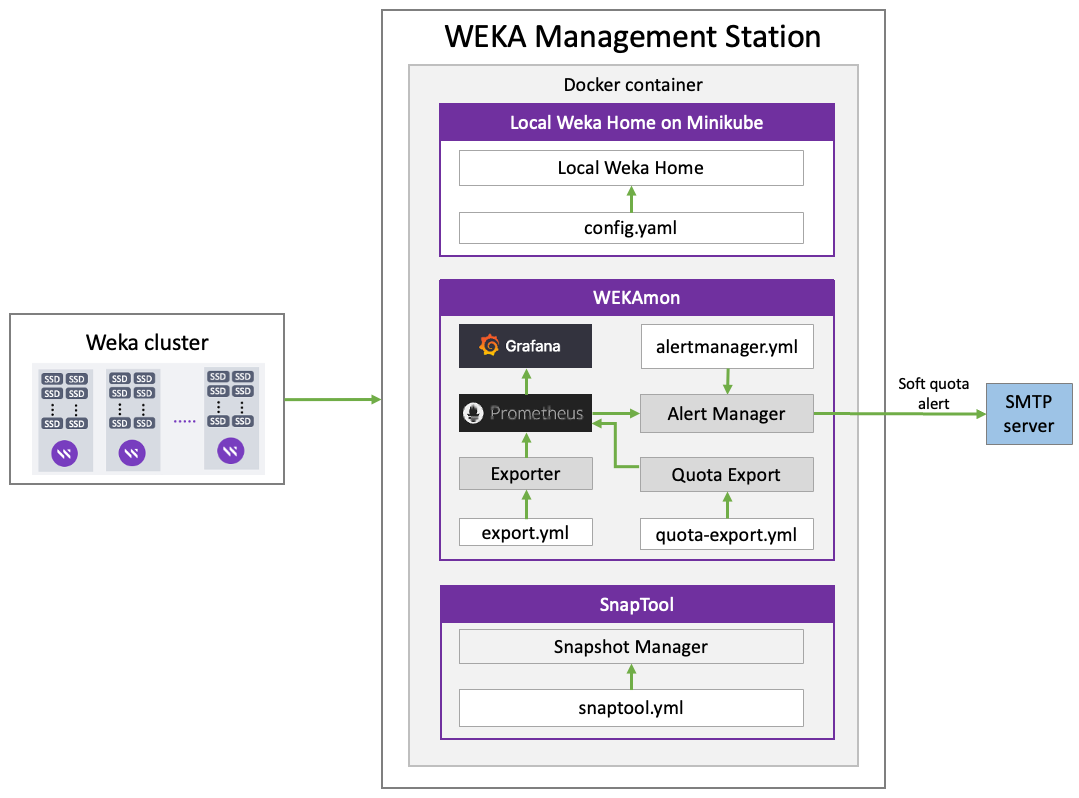
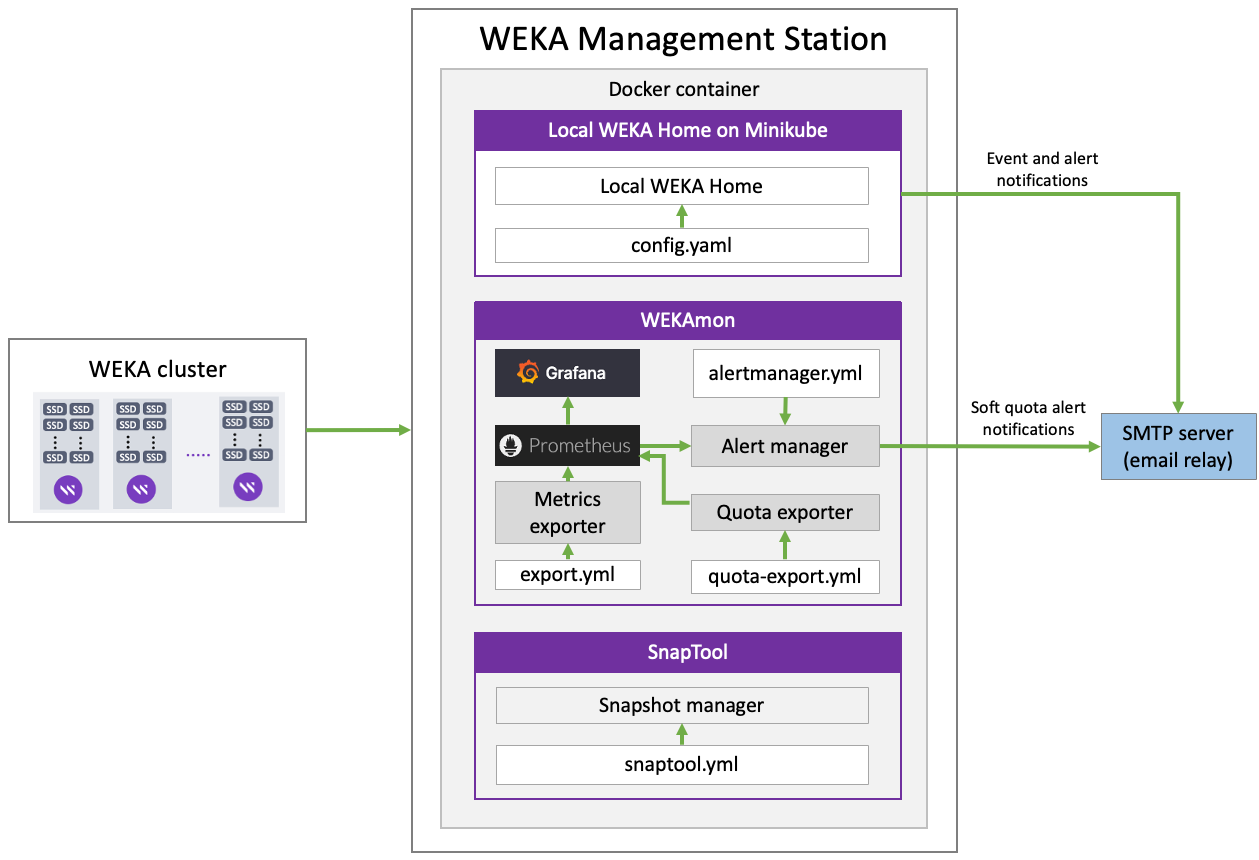
GITBOOK-475: WMS Changes after actually deploying it

diff --git a/monitor-the-weka-cluster/deploy-monitoring-tools-using-the-weka-management-station-wms.md b/monitor-the-weka-cluster/deploy-monitoring-tools-using-the-weka-management-station-wms.md
@@ -6,9 +6,9 @@ description: >-
 
 # Deploy monitoring tools using the WEKA Management Station (WMS)
 
-The WEKA Management Station (WMS) is an install kit similar to an OS install disk that simplifies the installation and configuration of the Local WEKA Home (LWH), WEKAmon, and SnapTool, in an on-premises environment. The WMS installs the WEKA OS, drivers, and WEKA software automatically and unattended.
+The WEKA Management Station (WMS) is an installation kit similar to an OS installation disk that simplifies the installation and configuration of the Local WEKA Home (LWH), WEKAmon, and SnapTool in an on-premises environment. The WMS installs the WEKA OS, drivers, and WEKA software automatically and unattended.
 
-The WMS is also used for installing a WEKA cluster by deploying the WEKA Software Appliance (WSA) package on bare metal servers.
+The WMS can also install a WEKA cluster by deploying the WEKA Software Appliance (WSA) package on bare metal servers.
 
 <figure><img src="../.gitbook/assets/WMS_deployment.png" alt=""><figcaption><p>WEKA Management Station deployment</p></figcaption></figure>
 
@@ -39,6 +39,11 @@ The server or VM must meet the following requirements:
   * If not configuring LWH: minimum 4 cores and 16 GiB.
   * If configuring LWH, see the Server minimum CPU and RAM requirements section in [#1.-verify-prerequisites](the-wekaio-support-cloud/local-weka-home-deployment.md#1.-verify-prerequisites "mention").
 * **Network interface:** 1 Gbps.&#x20;
+* **Firewall rules:**   The WMS listens on multiple ports depending on which service you are accessing.  See [#required-ports](../support/prerequisites-and-compatibility.md#required-ports "mention")
+
+{% hint style="info" %}
+This workflow only applies to installation on a server or VM. It does not apply to installation on AWS. To install on AWS, contact the Customer Success Team.
+{% endhint %}
 
 ## Before you begin
 
@@ -50,24 +55,28 @@ Before deploying the WMS, adhere to the following:
 * To get a command prompt from the Installation GUI, do one of the following:
   * On macOS, type **ctrl+option+f2**&#x20;
   * On Windows, type **ctrl+alt+f2**.
-* Creating a unique local username dedicated to WMS with a ClusterAdmin or OrgAdmin role is highly recommended. The unique username is displayed in the event logs, making the identification and troubleshooting of issues easier.\
+* Creating a unique local username dedicated to WMS with a ClusterAdmin or OrgAdmin role is highly recommended. The unique username is displayed in the event logs, making identifying and troubleshooting issues easier.\
   To create a local user, see the [Create local users](../usage/user-management/user-management.md#create-a-local-user) topic.
 
 ## &#x20;WMS deployment workflow
 
 1. [Install the WMS](deploy-monitoring-tools-using-the-weka-management-station-wms.md#install-the-wms).
 2. [Configure the WMS](deploy-monitoring-tools-using-the-weka-management-station-wms.md#configure-the-wms).
-3. [Set the email notifications](deploy-monitoring-tools-using-the-weka-management-station-wms.md#set-the-email-notifications).
-4. [Install and configure the LWH](deploy-monitoring-tools-using-the-weka-management-station-wms.md#install-and-configure-the-lwh).
-5. [Configure the WEKAmon](deploy-monitoring-tools-using-the-weka-management-station-wms.md#configure-the-wekamon).
-6. [Edit the hosts file](deploy-monitoring-tools-using-the-weka-management-station-wms.md#edit-the-hosts-file).
-7. [Configure the Snaptool](deploy-monitoring-tools-using-the-weka-management-station-wms.md#configure-the-snaptool).
-8. [Download logs](deploy-monitoring-tools-using-the-weka-management-station-wms.md#download-logs).
+3. [Change password](deploy-monitoring-tools-using-the-weka-management-station-wms.md#change-password).
+4. [Configure the email notifications](deploy-monitoring-tools-using-the-weka-management-station-wms.md#configure-the-email-notifications).
+5. [Install and configure the LWH](deploy-monitoring-tools-using-the-weka-management-station-wms.md#install-and-configure-the-lwh).
+6. [Configure the WEKAmon](deploy-monitoring-tools-using-the-weka-management-station-wms.md#configure-the-wekamon).
+7. [Edit the hosts file](deploy-monitoring-tools-using-the-weka-management-station-wms.md#edit-the-hosts-file).
+8. [Configure the Snaptool](deploy-monitoring-tools-using-the-weka-management-station-wms.md#configure-the-snaptool).
+9. [Download logs](deploy-monitoring-tools-using-the-weka-management-station-wms.md#download-logs).
 
 ### Install the WMS
 
+**Procedure**
+
 1. Download the latest WMS image from [get.weka.io](https://get.weka.io/) (requires sign-in).
-2. Boot the server from the WMS image. The following are some options to do that:
+2. Boot the server from the WMS image. \
+   The following are some options to do that:
 
 {% tabs %}
 {% tab title="Copy to a mountable location" %}
@@ -105,6 +114,8 @@ Depending on network speed, this can take about 10-60 mins (or more) per server.
 
 Once the WMS installation is complete and rebooted, configure the WMS.
 
+**Procedure**
+
 1. Run the OS using one of the following options:
 
 {% tabs %}
@@ -126,61 +137,98 @@ Change the port from 9090 to 8501, which is the WMS Admin port.
 2. Browse to the WMS Admin UI using the following URL:\
    `https://<WMS-hostname-or-ip>:8501`
 
-<figure><img src="../.gitbook/assets/WMS_login (1).png" alt=""><figcaption><p>WMS Admin UI: Login Page</p></figcaption></figure>
+<figure><img src="../.gitbook/assets/wms_0_login.png" alt="" width="529"><figcaption><p>WMS Landing Page: Login</p></figcaption></figure>
 
 3. If you have created a local username dedicated to WMS, as recommended, enter its credentials. Otherwise, enter the default username and password _admin_/_admin_. Then, select **Login**.\
    The Landing Page appears.
 
-<figure><img src="../.gitbook/assets/WMS_landing_page (1).png" alt="" width="375"><figcaption><p>WMS Landing Page</p></figcaption></figure>
+<figure><img src="../.gitbook/assets/wms_1_landing_page.png" alt=""><figcaption><p>WMS Landing Page</p></figcaption></figure>
 
-### Set the email notifications
+### Change password
 
-You can set the sender and target SMTP server details for email notifications about the following:
+The default password is _admin_. It is recommended to change it for security reasons.
 
-* The WEKAmon has an Alert Manager that sends alerts by email when the user has reached the soft quota limit.
-* The LWH sends alerts or events through the email integration.
+**Procedure**
+
+1. From the left pane, select **Change Password**.
+2. Provide your current password, choose a new password, confirm the new password, and click **Reset**.
+
+<figure><img src="../.gitbook/assets/wms_2_change_password.png" alt="" width="563"><figcaption><p>Change Password</p></figcaption></figure>
+
+### Configure the email notifications
+
+Set up email notifications by configuring the SMTP server (email relay) to enable WMS for sending notifications related to:
+
+* **LWH alerts and events:** The LWH sends email alerts and events notifications.
+* **WEKAmon quota notifications:** The WEKAmon Alert Manager sends email alerts when a user reaches the soft quota limit.
+
+**Procedure**
 
 1. From the left pane, select **Email Notification Settings**.
 2. Set the required details:
-   * **Sender details:** Name and email address of the sender.
-   * **Target SMTP server details:** Host, port, username, and password of the SMTP server used as the Email relay.
+   * **Email From Name:** The designated name for the sender of WMS emails.
+   * **Email From Address:** The email address used for outgoing emails from WMS.
+   * **Email Relay Host:** The smart host or upstream SMTP server address WMS uses for sending emails.
+   * **Email Relay Port:** The port number used on the SMTP server. Typically set to 25, 465, 587, or 2525.
+   * **SMTP Relay allows/requires TLS:** Select if the SMTP server uses TLS encryption.
+   * **Email Relay Username:** Enter the username for logging into the SMTP server, if necessary.
+   * **Email Relay Password:** Enter the password for logging into the SMTP server, if necessary.
+   * **Allow Insecure TLS with SMTP Relay:** Enable TLS for an SMTP server with a self-signed certificate.
 3. Select **Save**.
 
-<figure><img src="../.gitbook/assets/WMS_set_email_notifications.png" alt="" width="375"><figcaption><p>WMS Email Notification settings</p></figcaption></figure>
+<figure><img src="../.gitbook/assets/wms_3_email_notification_settings.png" alt=""><figcaption><p>WMS Email Notification Settings</p></figcaption></figure>
 
 ### Install and configure the LWH
 
+**Procedure**
+
 1. From the left pane, select **Configure Local WEKA Home**.
-2. If required, customize the LWH settings.\
-   The forward data to the Cloud Weka Home is enabled by default.
+2. If required, customize the LWH settings.    \
+   The forward data to the Cloud WEKA Home is enabled by default.
+
+<figure><img src="../.gitbook/assets/wms_5_configure_lwh.png" alt=""><figcaption><p>Local WEKA Home configuration (post Installation example)</p></figcaption></figure>
+
 3. Select **Save**.\
    The WMS saves the configuration and installs the Minikube and LWH. This process can take several minutes. When the process completes, the following appears:
 
-<figure><img src="../.gitbook/assets/WMS_LWH_Minikube_installation_complete.png" alt="" width="375"><figcaption><p>LWH installation is complete</p></figcaption></figure>
+<figure><img src="../.gitbook/assets/WMS_LWH_Minikube_installation_complete.png" alt="" width="563"><figcaption><p>LWH installation is complete</p></figcaption></figure>
 
 4. Retrieve the LWH Admin and Grafana passwords as follows:
    * Select **Get Admin Password**. The password appears below the button.
    * Select **Get Grafana Password**. The password appears below the button. This password only applies to the Grafana instance within LWH (not related to the Grafana instance of the WEKAmon).
 
-<figure><img src="../.gitbook/assets/WMS_GetAdminPassword.png" alt="" width="375"><figcaption></figcaption></figure>
+<figure><img src="../.gitbook/assets/WMS_GetAdminPassword.png" alt="" width="375"><figcaption><p>Admin password</p></figcaption></figure>
 
-4. Register the cluster with the LWH. On one of the backend servers in your cluster, run the following command line: \
-   `weka cloud enable --cloud-url https://<WMS server IP or hostname>`\
-   \
-   Where:\
-   The WMS server IP or hostname is generally the same as the WMS instance.\
-   If you do not use TLS, then replace `https` with `http`.
+4. Register the cluster with the LWH.
+   * Choose one of the backend servers in your cluster to run the command.
+   *   Run the appropriate command based on your TLS configuration. If TLS is configured, use the following command with the WMS server IP or hostname:
+
+       {% code overflow="wrap" %}
+       ```bash
+       weka cloud enable --cloud-url https://<WMS server IP or hostname>
+       ```
+       {% endcode %}
+
+       If TLS is not configured, use the following command with the WMS server IP or hostname:
+
+       {% code overflow="wrap" %}
+       ```bash
+       weka cloud enable --cloud-url http://<WMS server IP or hostname>
+       ```
+       {% endcode %}
+
+       Ensure that the provided WMS server IP or hostname matches the WMS instance information.
 
 {% hint style="info" %}
-The WMS could have more than one IP interface. For example, it can be installed as a jumphost with two interfaces, one for the corporate network and one for the cluster network. The cluster may not reach the corporate network. Therefore, you must provide the IP of the WMS that is on the cluster network.
+The WMS can have multiple IP interfaces, such as when installed as a jump host with distinct interfaces for the corporate network and the cluster network. In scenarios where the cluster is isolated from the corporate network, it is essential to specify the IP address of the WMS associated with the cluster network. &#x20;
 {% endhint %}
 
 5. Log in to the LWH.\
-   On the Landing Page, select **Open Local WEKA Home in new tab**.\
+   On the Landing Page, select **Open Local WEKA Home in new tab**.  \
    When prompted for a password, enter the Admin password retrieved in the previous steps.\
-   The LWH **Cluster Overview** page appears.
+   The **LWH Cluster Overview** page appears.
 
-<figure><img src="../.gitbook/assets/WMS_Open_LWH (1).png" alt="" width="375"><figcaption><p>Open Local WEKA Home in a new tab</p></figcaption></figure>
+<figure><img src="../.gitbook/assets/WMS_Open_LWH (1).png" alt="" width="563"><figcaption><p>Open Local WEKA Home in a new tab</p></figcaption></figure>
 
 {% hint style="info" %}
 **Reconfiguring LWH:** If required, return to the LWH configuration page, update the configuration, and select **Save** again. The LWH configuration will be updated and restarted. &#x20;
@@ -188,11 +236,23 @@ The WMS could have more than one IP interface. For example, it can be installed 
 
 ### Configure the WEKAmon
 
+**Procedure**
+
 1. From the left pane, select **Configure WEKAmon**.
 
-<figure><img src="../.gitbook/assets/WMS_WEKAmon (1).png" alt="" width="375"><figcaption><p>WEKAmon Services Configuration</p></figcaption></figure>
+<figure><img src="../.gitbook/assets/wms_6_configurae_wekamon.png" alt=""><figcaption><p>WEKAmon Services Configuration</p></figcaption></figure>
 
-2. Select the services you want to enable and set the hostname or public IP address, username, and password of the cluster to monitor (it can be a backend server of the cluster). Then, select **Save**.
+2. Select the services you want to enable. Possible options:
+   * **Enable Metrics Exporter & Grafana:** Select to activate metrics exporter and Grafana integration to visualize and analyze performance metrics seamlessly.
+   * **Enable Quota Exporter & Notifications:** Select to enable the WEKAmon to send notifications for soft storage quotas.
+   * **Enable Snaptool:** Select to activate the snapshots manager, facilitating scheduled snapshots and automated operations.
+   * **Enable WEKAmon Log Storage:** Select this option to enable long-term event storage within WEKAmon.
+
+{% hint style="info" %}
+To set the quota limits, see [quota-management](../fs/quota-management/ "mention").
+{% endhint %}
+
+3. Set the hostname or public IP address, username, and password of the cluster to monitor (it can be a backend server of the cluster). Then, select **Save**.
 
 {% hint style="info" %}
 If DNS does not have the hostnames of the cluster, do one of the following:
@@ -203,53 +263,56 @@ If DNS does not have the hostnames of the cluster, do one of the following:
 
 Once the WMS successfully logs in to the cluster, the WEKAmon installation begins.
 
-<figure><img src="../.gitbook/assets/WMS_select_WEKAmon_services.png" alt="" width="375"><figcaption><p>Select WEKAmon services</p></figcaption></figure>
+<figure><img src="../.gitbook/assets/wms_6_configurae_wekamon.png" alt=""><figcaption><p>WEKAmon Services Configuration</p></figcaption></figure>
 
-Once the WEKAmon installation completes, you can open it from the WMS Landing Page.
+When the WEKAmon installation is completed, you can open it from the WMS Landing Page.
 
 <figure><img src="../.gitbook/assets/WMS_WEKAmon_install_completes.png" alt="" width="375"><figcaption><p>WEKAmon installation completes</p></figcaption></figure>
-
-<figure><img src="../.gitbook/assets/WMS_WEKAmon.png" alt="" width="375"><figcaption><p>Open WEKAmon in new tab</p></figcaption></figure>
 
 #### Open Grafana
 
 1. From the Landing Page, select **Grafana**.
 2. For username and password, use `admin/admin` (not the username/password that was retrieved for LWH.)
 
-{% hint style="info" %}
-If your cluster is in a different AWS region, edit the `/etc/hosts` file on the WMS to resolve the private IP addresses of the cluster, and associate the public IP addresses with the internal private IP addresses.
-{% endhint %}
-
-<figure><img src="../.gitbook/assets/WMS_public_and_private_IPs.png" alt="" width="375"><figcaption><p>Private and public IP addresses in the hosts file</p></figcaption></figure>
-
 ### Edit the hosts file
 
+If the WEKA cluster servers are not resolvable with a DNS, resolve the server names and associate them with the relevant IP addresses accessible to the WMS in the `/etc/hosts` file.
+
 The WMS provides a simple text editor to facilitate editing the `/etc/hosts` file.
+
+<figure><img src="../.gitbook/assets/wms_4_edit_hosts_file.png" alt=""><figcaption><p>Edit /etc/hosts</p></figcaption></figure>
+
+**Procedure**
 
 1. From the left pane, select **Edit Hosts File**.
 2. Add the IP addresses of the cluster servers. Type, copy, and paste as in any other simple text editor.&#x20;
 3. Select **Save**.
 
-<figure><img src="../.gitbook/assets/WMS_save_hosts_file.gif" alt="" width="375"><figcaption><p>Edit the hosts file</p></figcaption></figure>
-
 ### Configure the Snaptool
 
 Snaptool is pre-installed in the `/opt/snaptool` directory and includes all the containers, so there is no need to download anything. Only configuration is required.
 
+**Procedure**
+
 1. From the left pane, select **Snaptool Configuration**.
-2. In the Snaptool Configuration Editor, if required, you can update the configuration. For details, see [Edit the configuration in the snaptool.yml file](broken-reference).\
+2. In the Snaptool Configuration Editor, if required, you can update the configuration. For details, see [#edit-the-configuration-in-the-snaptool.yml-file](snapshot-management.md#edit-the-configuration-in-the-snaptool.yml-file "mention").\
    Snaptool shares the same cluster login information as WEKAmon and automatically detects and re-loads its configuration when any changes are made.
 3. Select **Save**.&#x20;
 
-<figure><img src="../.gitbook/assets/WMS_SnapTool_Config.png" alt="" width="375"><figcaption><p>Snaptool Configuration</p></figcaption></figure>
+<figure><img src="../.gitbook/assets/wms_7_snaptool_configuration.png" alt=""><figcaption><p>Snaptool Configuration</p></figcaption></figure>
 
 ### Download diagnostics logs
 
 If errors occur during the WMS installation, download the diagnostics logs and send them to the Customer Success Team.
 
+**Procedure**
+
 1. From the left pane, select **Download Logs**.
 2. Select **Gather Logs** to collect the logs.
-3. Once finished, select Download Logs to save a local copy of the diagnostics tarball on your workstation.
+3. Once finished, select **Download Logs** to save a local copy of the diagnostics tarball on your workstation.
+
+<figure><img src="../.gitbook/assets/wms_8_download_logs.png" alt=""><figcaption><p>Download Logs</p></figcaption></figure>
+
 4. Share the downloaded files with the Customer Success Team.
 
-<figure><img src="../.gitbook/assets/WMS_Download_logs.gif" alt="" width="375"><figcaption><p>Download logs</p></figcaption></figure>
+<figure><img src="../.gitbook/assets/wms_9_downloaded_log_file_example.png" alt="" width="259"><figcaption><p>Downloaded logs example</p></figcaption></figure>

diff --git a/monitor-the-weka-cluster/external-monitoring.md b/monitor-the-weka-cluster/external-monitoring.md
@@ -10,17 +10,17 @@ WEKA provides an external monitoring package named **WEKAmon**. The package impl
 
 The package also includes the following components:
 
-* **Exporter**: The Exporter gets the data from the Weka cluster and sends the data to Prometheus.
+* **Exporter**: The Exporter gets the data from the WEKA cluster and sends the data to Prometheus.
 * **Quota Export**:  The Quota Export manages the quotas and sends the data to Prometheus.
 * **Alert Manager**:  The Alert Manger alerts users through an SMTP server when they reach their soft quota limits.
 
-You can set up the Weka-mon package regardless of the data monitoring provided by the Weka GUI.
+You can set up the WEKA-mon package regardless of the data monitoring provided by the Weka GUI.
 
 <figure><img src="../.gitbook/assets/weka-mon_setup.png" alt=""><figcaption><p>WEKAmon setup</p></figcaption></figure>
 
 One of the advantages of setting up the WEKAmon package is that if you already use the Grafana and Prometheus tools for monitoring other products, you can integrate these tools with WEKA to correlate and display monitoring information from all your products on the same dashboard.
 
-![Weka enriched monitoring data on the Grafana dashboard example](<../.gitbook/assets/image (25).png>)
+![WEKA enriched monitoring data on the Grafana dashboard example](<../.gitbook/assets/image (25).png>)
 
 {% hint style="info" %}
 If you have deployed the WMS, follow the procedure in:[deploy-monitoring-tools-using-the-weka-management-station-wms.md](deploy-monitoring-tools-using-the-weka-management-station-wms.md "mention"). Otherwise, continue with this workflow.
@@ -46,7 +46,7 @@ Setting up a dedicated management server (or VM) for the installation is recomme
 
 ### Authentication token requirement
 
-To enable communication between the management server and the Weka cluster, the security token is required in the **auth-token.json** file.
+To enable communication between the management server and the WEKA cluster, the security token is required in the **auth-token.json** file.
 
 1. Create the directory `~/.weka` in the WEKAmon installation directory.
 2. Generate the `auth-token.json` file and save it in the `~/.weka` directory you created. See the [Obtain authentication tokens](../usage/security/obtain-authentication-tokens.md) topic.
@@ -60,8 +60,8 @@ To create a local user, see the [Create local users](../usage/user-management/us
 
 1. [Obtain the WEKAmon package](external-monitoring.md#1.-obtain-the-weka-mon-package): Obtain the WEKAmon package from the GitHub repository by downloading or cloning.
 2. [Run the install.sh script](external-monitoring.md#2.-run-the-install.sh-script): The script creates a few directories and sets their permissions.
-3. [Edit the export.yml file](external-monitoring.md#3.-edit-the-export.yml-file): The `export.yml` file contains the WEKAmon and the exporter configuration. Customize the file according to your actual Weka deployment.
-4. [Edit the quota-export.yml file](external-monitoring.md#4.-edit-the-quota-export.yml-file): The `quota-export.yml` file contains the configuration of the quota-export container. Customize the file according to your actual Weka deployment.
+3. [Edit the export.yml file](external-monitoring.md#3.-edit-the-export.yml-file): The `export.yml` file contains the WEKAmon and the exporter configuration. Customize the file according to your actual WEKA deployment.
+4. [Edit the quota-export.yml file](external-monitoring.md#4.-edit-the-quota-export.yml-file): The `quota-export.yml` file contains the configuration of the quota-export container. Customize the file according to your actual WEKA deployment.
 5. [Start the docker-compose containers](external-monitoring.md#4.-start-the-docker-compose-containers): Once done, you can connect to Grafana on port 3000 of the management server running the docker containers.&#x20;
 
 ### 1. Obtain the WEKAmon package
@@ -98,7 +98,7 @@ Run the following command:
 
 ### 3. Edit the export.yml file
 
-The WEKAmon and the exporter configuration are defined in the `export.yml` file.
+The WEKAmon and exporter configuration are defined in the `export.yml` file.
 
 1. Change the directory to `weka-mon` and open the `export.yml` file.
 2. In the **cluster** section under the **hosts** list, replace the hostnames with the actual hostnames/IP addresses of the Weka containers (up to three would be sufficient). Ensure the hostnames are mapped to the IP addresses in /etc/hosts.
@@ -110,10 +110,8 @@ hosts:
  - hostname03
 ```
 
-3\. Optional. In the **exporter** section, customize the values according to your preferences.\
-&#x20;   For details, see the [Exporter configuration options](external-monitoring.md#exporter-configuration-options-in-the-export.yml-file) topic below.
-
-4\. Optional. Add custom panels to Grafana containing other metrics.
+3. Optional. In the **exporter** section, customize the values according to your preferences. For details, see the [Exporter configuration options](external-monitoring.md#exporter-configuration-options-in-the-export.yml-file) topic below.
+4. Optional. Add custom panels to Grafana containing other metrics.
 
 All other settings in the `export.yml` file have pre-defined defaults that do not need modification to work with WEKAmon. All the configurable items are defined but marked as comments by an asterisk (#).
 
@@ -152,7 +150,7 @@ The configuration of the Alert Manager is defined in the `alertmanager.yml` file
 docker-compose up -d
 ```
 
-2\. Verify that the containers are running using the following command:
+2. Verify that the containers are running using the following command:
 
 ```
 docker ps

diff --git a/support/prerequisites-and-compatibility.md b/support/prerequisites-and-compatibility.md
@@ -282,7 +282,7 @@ When configuring firewall ingress and egress rules the following access must be 
 Right-scroll the table to view all columns.
 {% endhint %}
 
-<table><thead><tr><th width="211">Purpose</th><th width="124">Source</th><th width="135">Target</th><th width="150">Target Ports</th><th width="136">Protocol</th><th width="352">Comments</th></tr></thead><tbody><tr><td>WEKA server traffic for bare-metal deployments</td><td>All WEKA server IPs </td><td>All WEKA server IPs</td><td>14000-14100<br>14200-14300<br>14300-14400</td><td>TCP and UDP<br>TCP and UDP<br>TCP and UDP</td><td>These ports are the default for the Resources Generator for the first three containers. You can customize these values.</td></tr><tr><td>WEKA server traffic for cloud deployments</td><td>All WEKA server IPs</td><td>All WEKA server IPs</td><td><p>14000-14100</p><p>15000-15100</p><p>16000-16100</p></td><td>TCP and UDP<br>TCP and UDP<br>TCP and UDP</td><td>These ports are the default. You can customize these values.</td></tr><tr><td>WEKA SSH management traffic</td><td>All WEKA server IPs </td><td>All WEKA server IPs</td><td>22</td><td>TCP</td><td></td></tr><tr><td>WEKA clients traffic</td><td>Client host IPs</td><td>All WEKA server IPs</td><td>14000-14100</td><td>TCP and UDP</td><td></td></tr><tr><td>WEKA GUI access </td><td></td><td>All WEKA management IPs</td><td>14000</td><td>TCP</td><td>User web browser IP</td></tr><tr><td>NFS</td><td>NFS client IPs</td><td>WEKA Server NFS IPs</td><td>2049<br>&#x3C;mountd port></td><td>TCP and UDP<br>TCP and UDP</td><td>You can set the mountd port using the command: <code>weka nfs global-config set --mountd-port</code></td></tr><tr><td>SMB</td><td>SMB client IPs</td><td>WEKA Server SMB IPs</td><td>139<br>445</td><td>TCP<br>TCP</td><td></td></tr><tr><td>S3</td><td>S3 client IPs</td><td>WEKA Server S3 IPs</td><td>9000</td><td>TCP</td><td></td></tr><tr><td>wekatester</td><td>All WEKA server IPs</td><td>All WEKA server IPs</td><td>8501<br>9090</td><td>TCP<br>TCP</td><td>Port 8501 is used by wekanetperf.</td></tr><tr><td>WEKA Management Station</td><td>User web browser IP</td><td>WEKA Management Station IP</td><td>8501<br>9090</td><td>TCP<br>TCP</td><td></td></tr><tr><td>Cloud WEKA Home, Local WEKA Home</td><td>All WEKA server IPs </td><td>Cloud WEKA Home or Local WEKA Home</td><td>80<br>443</td><td>HTTP<br>HTTPS</td><td>Open according to the directions in the deployment scenario:<br>- WEKA server IPs to CWH or LWH.<br>- LWH to CWH (if forwarding data from LWH to CWH)</td></tr><tr><td>Troubleshooting by the Customer Success Team (CST).</td><td>All WEKA server IPs </td><td>CST remote access</td><td>4000<br>4001</td><td>TCP<br>TCP</td><td></td></tr></tbody></table>
+<table><thead><tr><th width="211">Purpose</th><th width="124">Source</th><th width="135">Target</th><th width="150">Target Ports</th><th width="136">Protocol</th><th width="352">Comments</th></tr></thead><tbody><tr><td>WEKA server traffic for bare-metal deployments</td><td>All WEKA server IPs </td><td>All WEKA server IPs</td><td>14000-14100<br>14200-14300<br>14300-14400</td><td>TCP and UDP<br>TCP and UDP<br>TCP and UDP</td><td>These ports are the default for the Resources Generator for the first three containers. You can customize these values.</td></tr><tr><td>WEKA server traffic for cloud deployments</td><td>All WEKA server IPs</td><td>All WEKA server IPs</td><td><p>14000-14100</p><p>15000-15100</p><p>16000-16100</p></td><td>TCP and UDP<br>TCP and UDP<br>TCP and UDP</td><td>These ports are the default. You can customize these values.</td></tr><tr><td>WEKA SSH management traffic</td><td>All WEKA server IPs </td><td>All WEKA server IPs</td><td>22</td><td>TCP</td><td></td></tr><tr><td>WEKA clients traffic</td><td>Client host IPs</td><td>All WEKA server IPs</td><td>14000-14100</td><td>TCP and UDP</td><td></td></tr><tr><td>WEKA GUI access </td><td></td><td>All WEKA management IPs</td><td>14000</td><td>TCP</td><td>User web browser IP</td></tr><tr><td>NFS</td><td>NFS client IPs</td><td>WEKA Server NFS IPs</td><td>2049<br>&#x3C;mountd port></td><td>TCP and UDP<br>TCP and UDP</td><td>You can set the mountd port using the command: <code>weka nfs global-config set --mountd-port</code></td></tr><tr><td>SMB</td><td>SMB client IPs</td><td>WEKA Server SMB IPs</td><td>139<br>445</td><td>TCP<br>TCP</td><td></td></tr><tr><td>S3</td><td>S3 client IPs</td><td>WEKA Server S3 IPs</td><td>9000</td><td>TCP</td><td></td></tr><tr><td>wekatester</td><td>All WEKA server IPs</td><td>All WEKA server IPs</td><td>8501<br>9090</td><td>TCP<br>TCP</td><td>Port 8501 is used by wekanetperf.</td></tr><tr><td>WEKA Management Station</td><td>User web browser IP</td><td>WEKA Management Station IP</td><td><p>80  &#x3C;LWH></p><p>443 &#x3C;LWH></p><p>3000 &#x3C;mon></p><p>8760 &#x3C;deploy></p><p>8090 &#x3C;snap></p><p>8501 &#x3C;mgmt><br>9090 &#x3C;mgmt></p><p>9091 &#x3C;mon><br>9093 &#x3C;alerts></p></td><td><p>HTTP</p><p>HTTPS</p><p>TCP</p><p>TCP</p><p>TCP</p><p>TCP<br>TCP</p><p>TCP<br>TCP</p></td><td></td></tr><tr><td>Cloud WEKA Home, Local WEKA Home</td><td>All WEKA server IPs </td><td>Cloud WEKA Home or Local WEKA Home</td><td>80<br>443</td><td>HTTP<br>HTTPS</td><td>Open according to the directions in the deployment scenario:<br>- WEKA server IPs to CWH or LWH.<br>- LWH to CWH (if forwarding data from LWH to CWH)</td></tr><tr><td>Troubleshooting by the Customer Success Team (CST).</td><td>All WEKA server IPs </td><td>CST remote access</td><td>4000<br>4001</td><td>TCP<br>TCP</td><td></td></tr></tbody></table>
 
 ## HA
 
